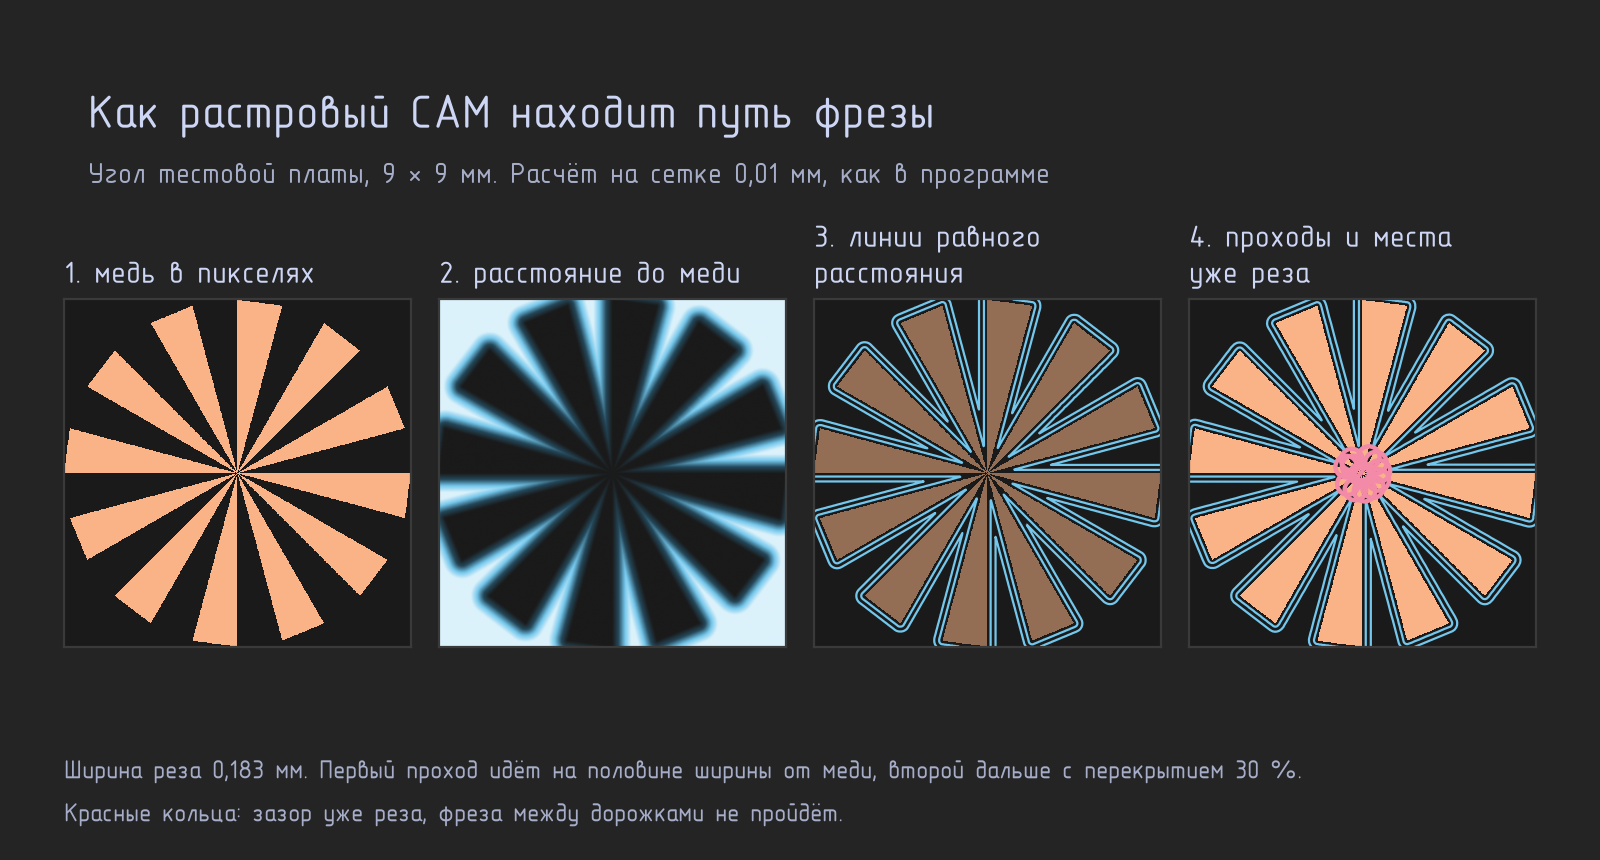
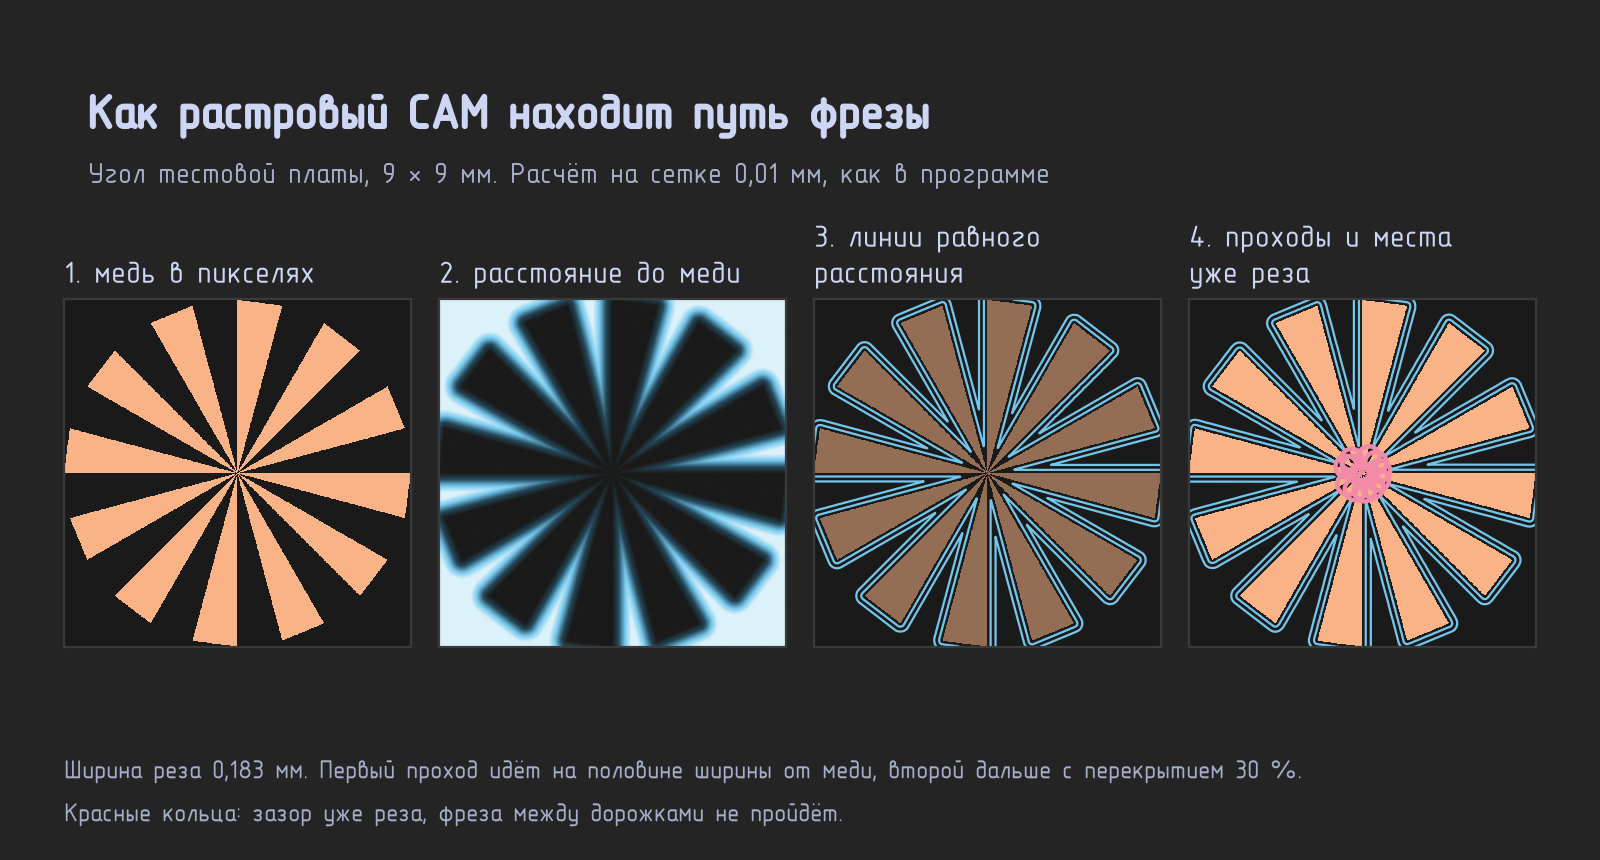
Статья: обложка с новым фото тестовой платы, заголовки рисунков толще

Changed region(s): [[0.0312, 0.0907, 0.5938, 0.1814]]

diff --git a/docs/article/figures.py b/docs/article/figures.py
@@ -29,7 +29,9 @@ matplotlib.use("Agg")
 import matplotlib.pyplot as plt
 import numpy as np
 from matplotlib import font_manager, rcParams
+from matplotlib import patheffects
 from matplotlib.colors import LinearSegmentedColormap
+from matplotlib.patches import FancyBboxPatch
 
 HERE = Path(__file__).resolve().parent
 OUT = HERE / "img"
@@ -98,10 +100,15 @@ def ru(v: float, digits: int = 2, strip: bool = True) -> str:
     return text
 
 
+def bold(color: str, width: float = 1.0):
+    """Thicken a large GOST line: the font has no bold face, thin strokes break up."""
+    return [patheffects.withStroke(linewidth=width, foreground=color)]
+
+
 def card(height: float, title: str, subtitle: str, legend=()):
     fig = plt.figure(figsize=(W, height), facecolor=C["card"])
     top = 1 - 0.42 / height
-    fig.text(0.055, top, title, fontsize=17, fontweight="bold", va="top")
+    fig.text(0.055, top, title, fontsize=17, va="top", path_effects=bold(C["ink"]))
     fig.text(0.055, top - 0.36 / height, subtitle, fontsize=10.5,
              color=C["muted"], va="top")
     x = 0.055
@@ -371,40 +378,31 @@ def fig_stages():
 
 
 def board_photo():
-    """The test board from photos/testboard-hand.jpg, squared to 84 x 58 mm.
+    """The test board from photos/testboard-cover.jpg: straight, on black, cut to its edge.
 
-    The corners were read off the photo by eye. The fingers reach over the left
-    and the right edge, so a strip on both sides is cut away.
+    The edge was found by brightness: the board is 2228 x 1537 px, 84 x 58 mm.
     """
     from PIL import Image
-    im = Image.open(HERE / "photos" / "testboard-hand.jpg").convert("RGB")
-    src = [(103, 362), (978, 357), (996, 962), (101, 978)]
-    w, h = 1680, 1160
-    dst = [(0, 0), (w, 0), (w, h), (0, h)]
-    a, b = [], []
-    for (x, y), (u, v) in zip(dst, src):
-        a.append([x, y, 1, 0, 0, 0, -u * x, -u * y])
-        b.append(u)
-        a.append([0, 0, 0, x, y, 1, -v * x, -v * y])
-        b.append(v)
-    coef = np.linalg.solve(np.array(a, float), np.array(b, float))
-    board = im.transform((w, h), Image.PERSPECTIVE, tuple(coef), Image.BICUBIC)
-    return board.crop((48, 4, 1650, h - 4))
+    im = Image.open(HERE / "photos" / "testboard-cover.jpg").convert("RGB")
+    return im.crop((72, 173, 2301, 1711))
 
 
 def fig_cover():
-    """Feed cover, 780x440: the test board whole on the right, the title on the left."""
+    """Feed cover at twice 780x440: the test board whole on the right, the title on the left."""
     board = np.asarray(board_photo(), float) / 255
     bh, bw = board.shape[:2]
     fig = plt.figure(figsize=(7.8, 4.4), dpi=100, facecolor=C["card"])
-    h = 290 / 440
+    h = 300 / 440
     w = h * 440 * bw / bh / 780
     ax = fig.add_axes([1 - w - 30 / 780, (1 - h) / 2, w, h])
-    ax.imshow(board, interpolation="lanczos")
+    im = ax.imshow(board, interpolation="lanczos")
+    # The board has round corners on black: clip them round on the card instead.
+    im.set_clip_path(FancyBboxPatch((-0.5, -0.5), bw, bh, transform=ax.transData,
+                                    boxstyle=f"round,pad=0,rounding_size={bh * 0.03:.0f}"))
     ax.axis("off")
-    fig.text(0.05, 0.84, "Свой CAM", fontsize=21, fontweight="bold", va="top")
-    fig.text(0.05, 0.72, "для фрезеровки", fontsize=21, fontweight="bold", va="top")
-    fig.text(0.05, 0.60, "плат", fontsize=21, fontweight="bold", va="top", color=C["mine"])
+    for y, line, color in ((0.84, "Свой CAM", C["ink"]), (0.72, "для фрезеровки", C["ink"]),
+                           (0.60, "плат", C["mine"])):
+        fig.text(0.05, y, line, fontsize=21, va="top", color=color, path_effects=bold(color, 1.2))
     fig.text(0.05, 0.40, "Windows 7, станок без API,\nкарта высот самой фрезой", fontsize=12.5,
              color=C["muted"], va="top", linespacing=1.45)
     fig.text(0.05, 0.1, "дорожка и зазор 0,2 мм", fontsize=12, color=C["ink"], va="bottom")
